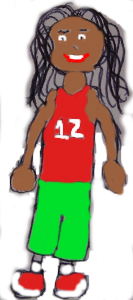
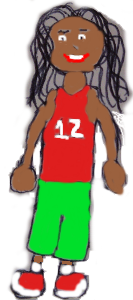
add player2 image

diff --git a/volleyball/js/main/game.js b/volleyball/js/main/game.js
@@ -86,6 +86,8 @@ function start_game(Physics) {
       height: 300,
       cof: 0
     });
+    player2.view = new Image();
+    player2.view.src = 'images/p2.png';
     bodies.push(ball);
     bodies.push(player1);
     bodies.push(player2);
